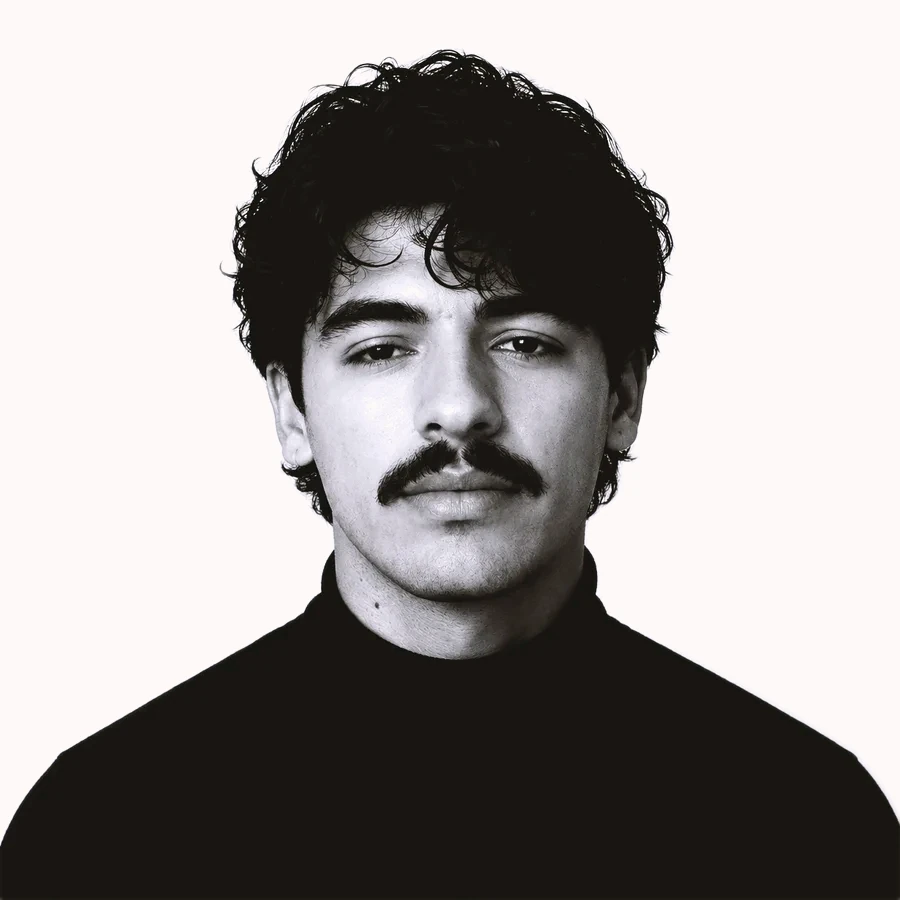
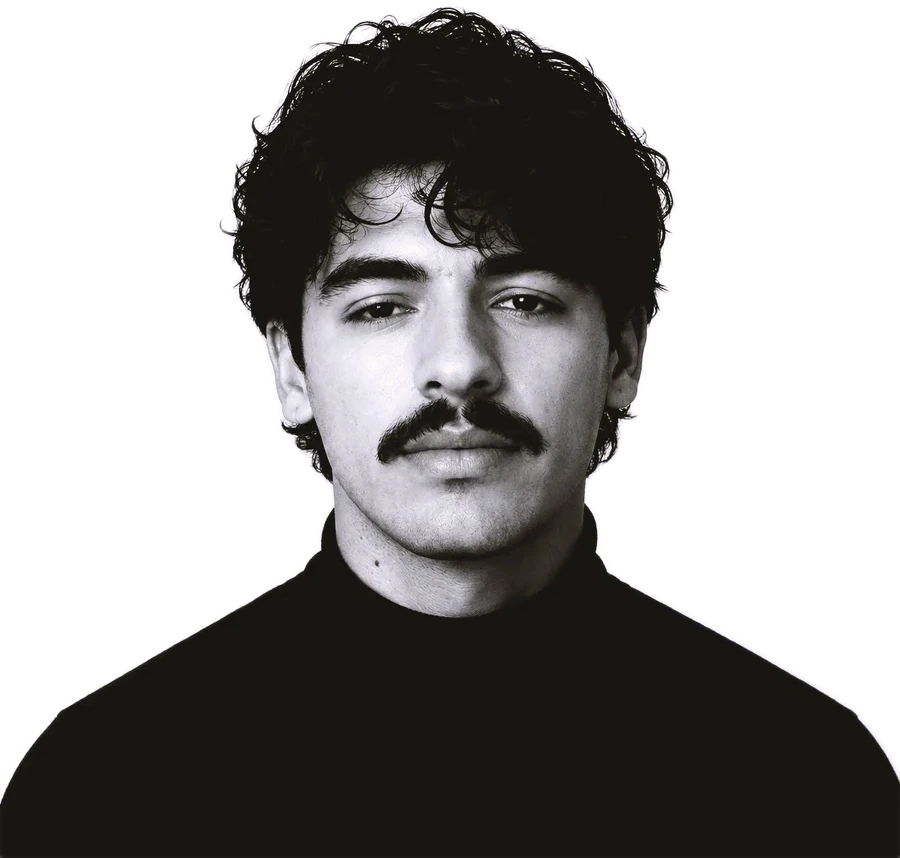
About photo: transparent cutout, scatter wraps the silhouette
- Swap the baked-box image for a transparent cutout trimmed to the subject
  (900x858); the hair fringe keeps the whites-to-page-colour mapping so no
  halo returns.
- Make the scatter alpha-aware: sample the cutout into a 96px alpha grid and
  push each character only to the silhouette edge along its own direction
  (+margin), instead of clearing the rectangular bounds. Sideways clearance
  at head level drops from ~301px to ~79px, so the type wraps tight to the
  photo. Scatter builds lazily on first hover so the alpha map has decoded;
  radial fallback if decode fails.

diff --git a/components/about/AboutHero.tsx b/components/about/AboutHero.tsx
@@ -35,8 +35,11 @@ const TOKENS: Token[] = [
   { icon: "♡" },
 ];
 
-const PUSH_MARGIN = 28;   // px of clearance beyond the photo's edge
+const PUSH_MARGIN = 28;   // px of clearance beyond the silhouette's edge
 const WAVE_SPEED = 1500;  // px/second the scatter wave travels outward
+// Transparent cutout, trimmed to the subject's real bounds (900x858).
+const PHOTO_SRC = "/images/about/finbar-hero.webp";
+const PHOTO_ASPECT = "900 / 858";
 
 export default function AboutHero() {
   const sectionRef = useRef<HTMLElement>(null);
@@ -60,13 +63,53 @@ export default function AboutHero() {
     const ctx = gsap.context(() => {
       const chars = gsap.utils.toArray<HTMLElement>(".ah-char");
 
+      // The photo has a transparent background, so the scatter shouldn't clear
+      // its rectangular bounds — it should wrap tight to the silhouette. Sample
+      // the image's alpha into a small grid, then for any direction from the
+      // photo centre find how far the actual pixels reach (the silhouette edge).
+      const GRID = 96;
+      let alphaGrid: Uint8Array | null = null;
+      let gridW = GRID;
+      let gridH = GRID;
+      const img = new Image();
+      img.src = PHOTO_SRC;
+      img.decode().then(() => {
+        gridH = Math.round(GRID * (img.naturalHeight / img.naturalWidth)) || GRID;
+        const cv = document.createElement("canvas");
+        cv.width = gridW; cv.height = gridH;
+        const c2 = cv.getContext("2d", { willReadFrequently: true });
+        if (!c2) return;
+        c2.drawImage(img, 0, 0, gridW, gridH);
+        const data = c2.getImageData(0, 0, gridW, gridH).data;
+        alphaGrid = new Uint8Array(gridW * gridH);
+        for (let i = 0; i < gridW * gridH; i++) alphaGrid[i] = data[i * 4 + 3] > 64 ? 1 : 0;
+      }).catch(() => { /* falls back to radial clearance */ });
+
+      // Furthest opaque pixel from the centre along (ux, uy), in screen px.
+      // pw/ph = the photo's on-screen layout size (offset*, transform-immune).
+      const edgeDist = (ux: number, uy: number, pw: number, ph: number) => {
+        const maxR = Math.hypot(pw, ph) / 2;
+        if (!alphaGrid) return pw / 2; // image not decoded yet: radial fallback
+        const step = Math.max(2, pw / GRID);
+        for (let t = maxR; t > 0; t -= step) {
+          const gx = Math.round(((ux * t) / pw + 0.5) * (gridW - 1));
+          const gy = Math.round(((uy * t) / ph + 0.5) * (gridH - 1));
+          if (gx < 0 || gy < 0 || gx >= gridW || gy >= gridH) continue;
+          if (alphaGrid[gy * gridW + gx]) return t;
+        }
+        return 0;
+      };
+
       // Per-character scatter offsets, from the resting layout, so the photo's
-      // footprint clears and the wave reads through the whole line.
+      // silhouette clears and the wave reads through the whole line.
       const buildScatter = () => {
-        const c = photo.getBoundingClientRect();
-        const cx = c.left + c.width / 2;
-        const cy = c.top + c.height / 2;
-        const R = c.width / 2 + PUSH_MARGIN;
+        // offsetWidth/offsetHeight + the section centre, because the photo is
+        // gsap-scaled to 0 at rest — its bounding rect is useless here.
+        const s = section.getBoundingClientRect();
+        const cx = s.left + s.width / 2;
+        const cy = s.top + s.height / 2;
+        const pw = photo.offsetWidth;
+        const ph = photo.offsetHeight;
         return chars.map((el) => {
           const b = el.getBoundingClientRect();
           const dx = b.left + b.width / 2 - cx;
@@ -74,10 +117,11 @@ export default function AboutHero() {
           const d = Math.hypot(dx, dy) || 1;
           const ux = dx / d;
           const uy = dy / d;
-          const clear = d < R ? R - d + 70 + gsap.utils.random(20, 110) : 0;
-          const shove = 150 * Math.exp(-Math.max(d - R, 0) / 320) + gsap.utils.random(6, 26);
+          const R = edgeDist(ux, uy, pw, ph) + PUSH_MARGIN;
+          const clear = d < R ? R - d + 34 + gsap.utils.random(10, 60) : 0;
+          const shove = 110 * Math.exp(-Math.max(d - R, 0) / 260) + gsap.utils.random(6, 22);
           const out = clear + shove;
-          const side = gsap.utils.random(-0.35, 0.35) * out;
+          const side = gsap.utils.random(-0.3, 0.3) * out;
           return { el, x: ux * out - uy * side, y: uy * out + ux * side, delay: d / WAVE_SPEED };
         });
       };
@@ -101,19 +145,25 @@ export default function AboutHero() {
         ease: "power3.out", immediateRender: false,
       });
 
-      // 2 — photo scales in + scatter, paused so hover can reverse it
-      const scatter = gsap.timeline({ paused: true });
-      scatter.to(photo, { scale: 1, duration: 0.5, ease: "power2.out" }, 0);
-      buildScatter().forEach((s) => {
-        scatter.to(s.el, { x: s.x, y: s.y, duration: 1.05, ease: "elastic.out(1, 0.5)" }, s.delay);
-      });
+      // 2 — photo scales in + scatter. Built lazily on FIRST hover so the
+      //     alpha map has decoded and the offsets wrap the real silhouette.
+      let scatter: gsap.core.Timeline | null = null;
+      const ensureScatter = () => {
+        if (scatter) return scatter;
+        scatter = gsap.timeline({ paused: true });
+        scatter.to(photo, { scale: 1, duration: 0.5, ease: "power2.out" }, 0);
+        buildScatter().forEach((s) => {
+          scatter!.to(s.el, { x: s.x, y: s.y, duration: 1.05, ease: "elastic.out(1, 0.5)" }, s.delay);
+        });
+        return scatter;
+      };
 
       // 3 — plain readable text is the default; hovering the centre zone
       //     ACTIVATES the takeover (photo in, characters scatter), and leaving
       //     reverses back to text. Fixed-size zone + guard so the photo scaling
       //     never causes enter/leave flicker.
-      handlers.enter = () => { if (hovering) return; hovering = true; scatter.timeScale(1).play(); };
-      handlers.leave = () => { if (!hovering) return; hovering = false; scatter.timeScale(1.6).reverse(); };
+      handlers.enter = () => { if (hovering) return; hovering = true; ensureScatter().timeScale(1).play(); };
+      handlers.leave = () => { if (!hovering) return; hovering = false; scatter?.timeScale(1.6).reverse(); };
     }, section);
 
     const enter = () => handlers.enter();
@@ -166,13 +216,14 @@ export default function AboutHero() {
         ref={photoRef}
         aria-hidden="true"
         className="absolute left-1/2 top-1/2 z-20 pointer-events-none"
-        style={{ width: "clamp(300px, 34vw, 460px)", aspectRatio: "1 / 1" }}
+        style={{ width: "clamp(300px, 34vw, 460px)", aspectRatio: PHOTO_ASPECT }}
       >
-        {/* Background is baked to the page colour (#FDF9F9), so the photo sits
-            seamlessly with no cut-out halo around the hair. */}
+        {/* Transparent cutout (whites in the hair fringe pre-mapped to the page
+            colour), trimmed to the subject — no box, and the scatter samples
+            this image's alpha to wrap the silhouette. */}
         {/* eslint-disable-next-line @next/next/no-img-element */}
         <img
-          src="/images/about/finbar-hero.webp"
+          src={PHOTO_SRC}
           alt="Finbar"
           className="w-full h-full"
           style={{ objectFit: "contain" }}
